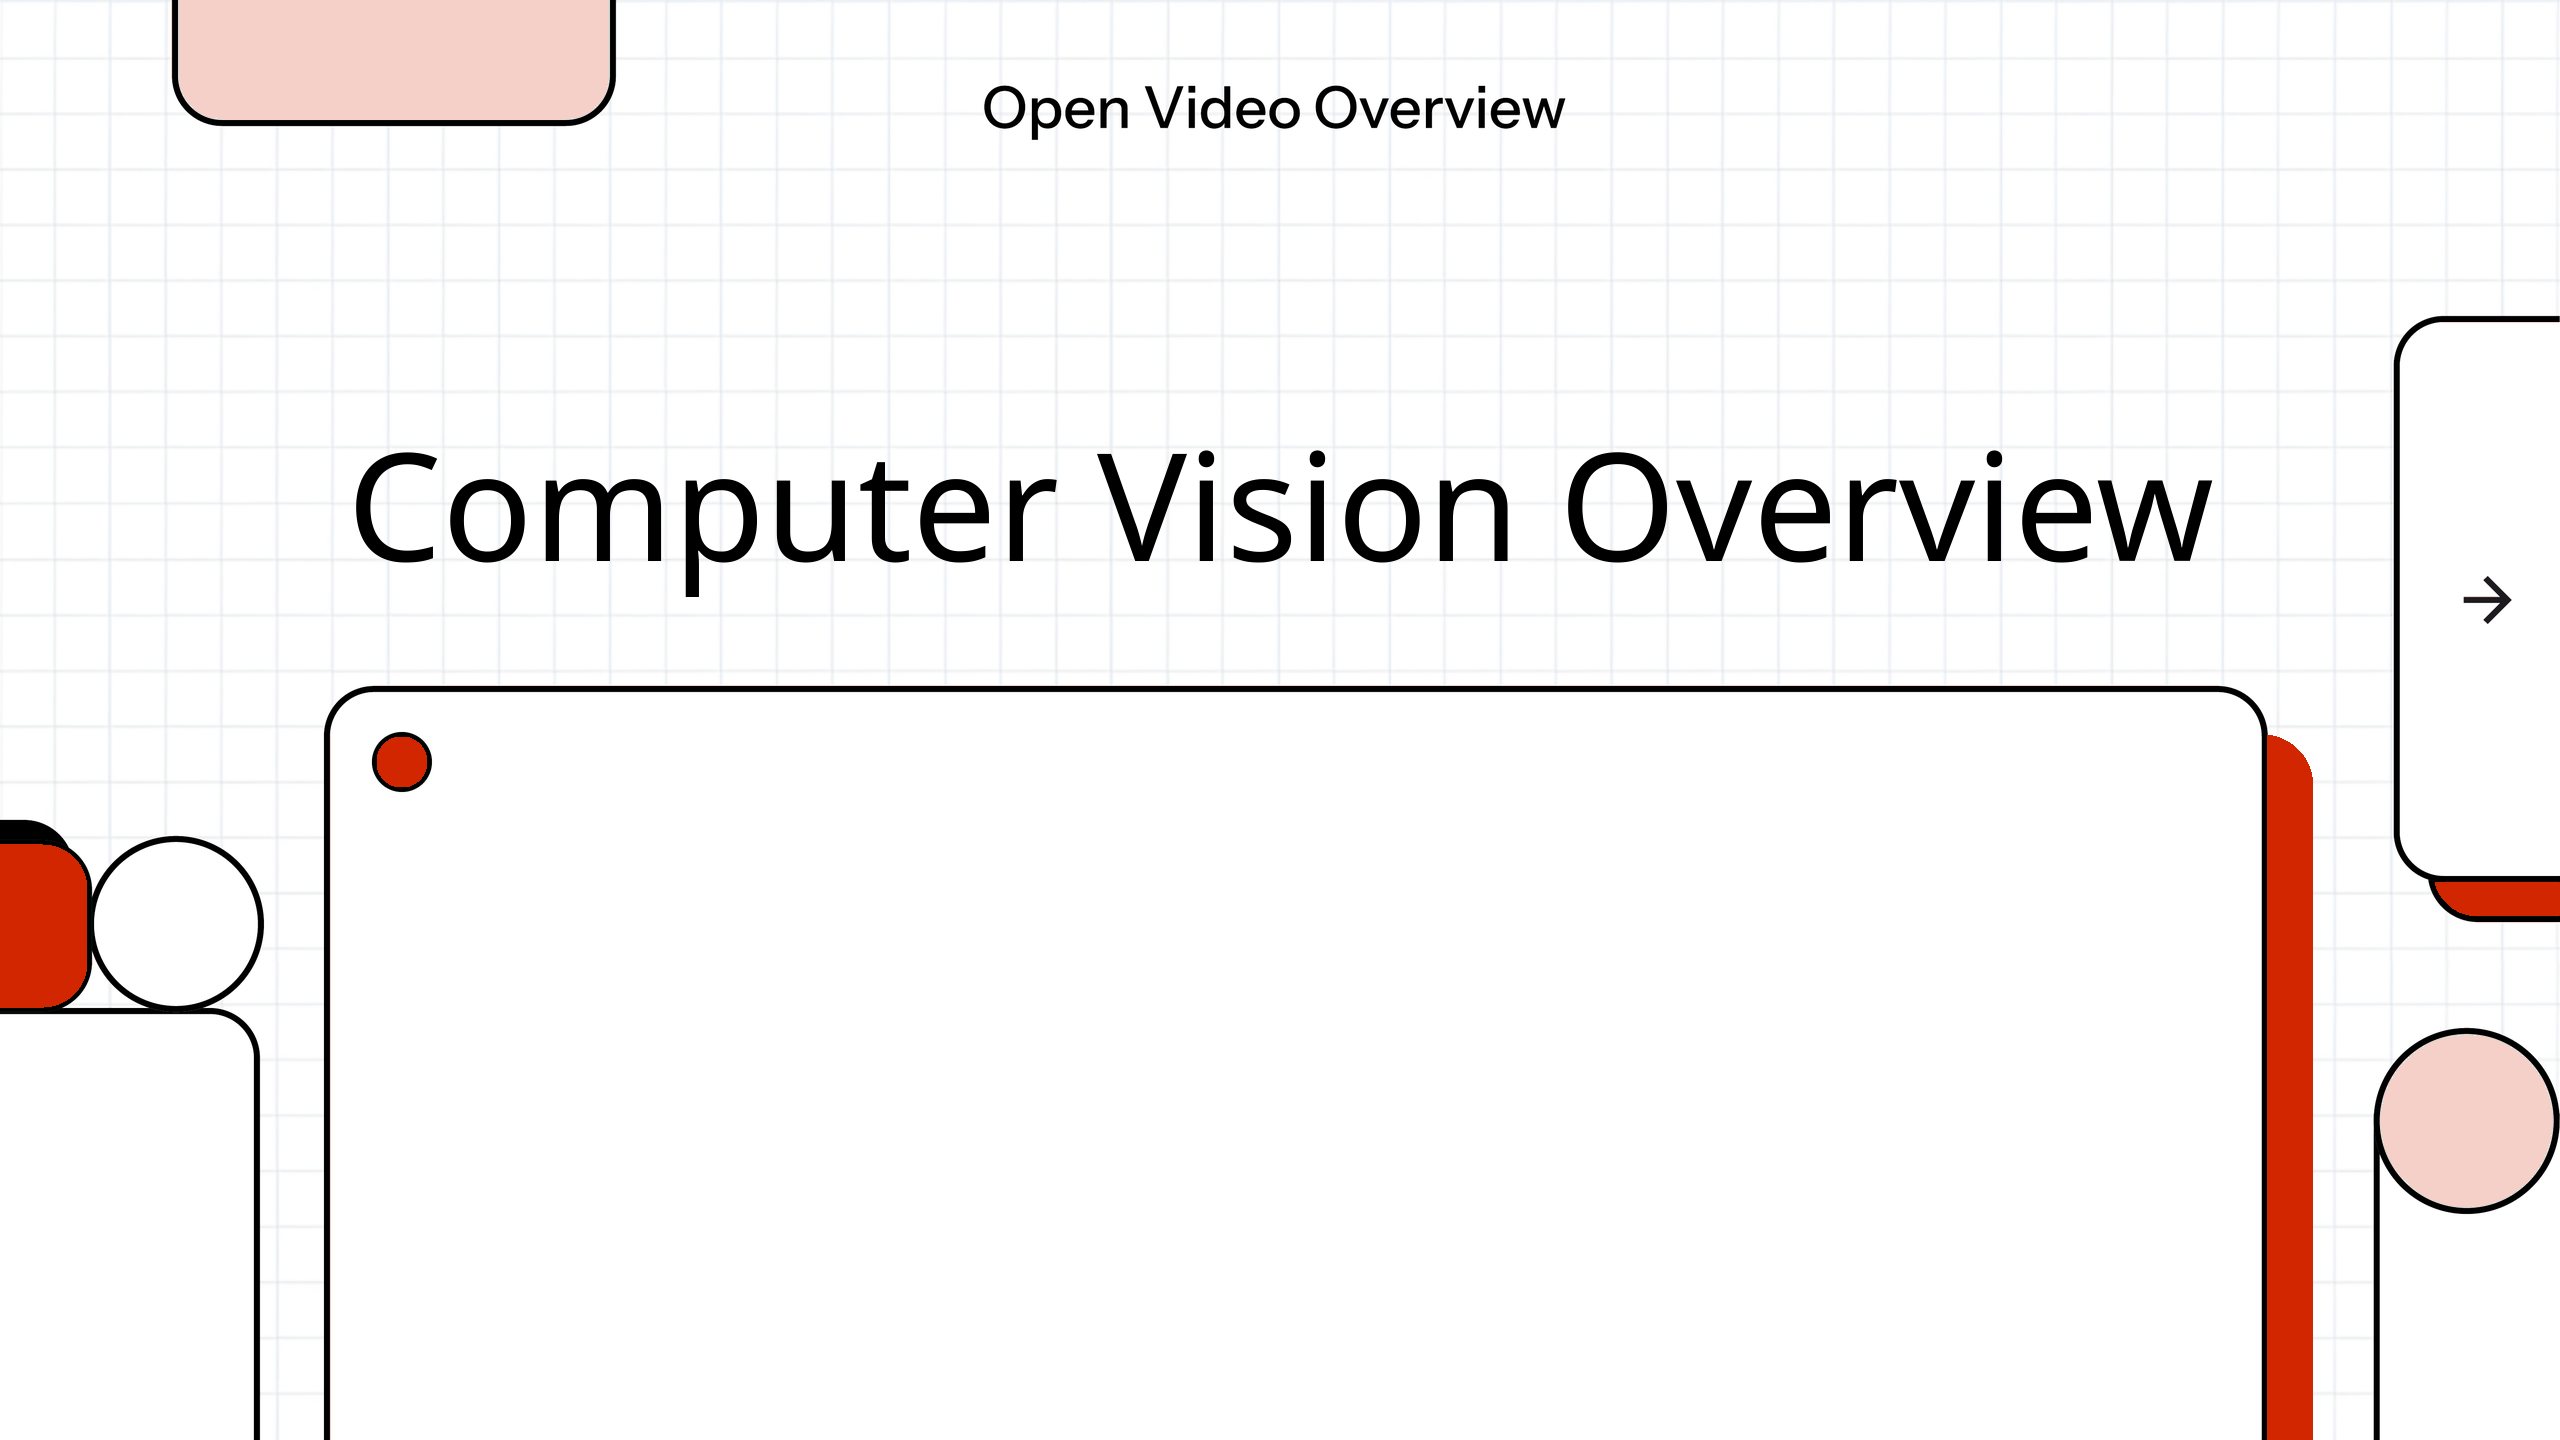
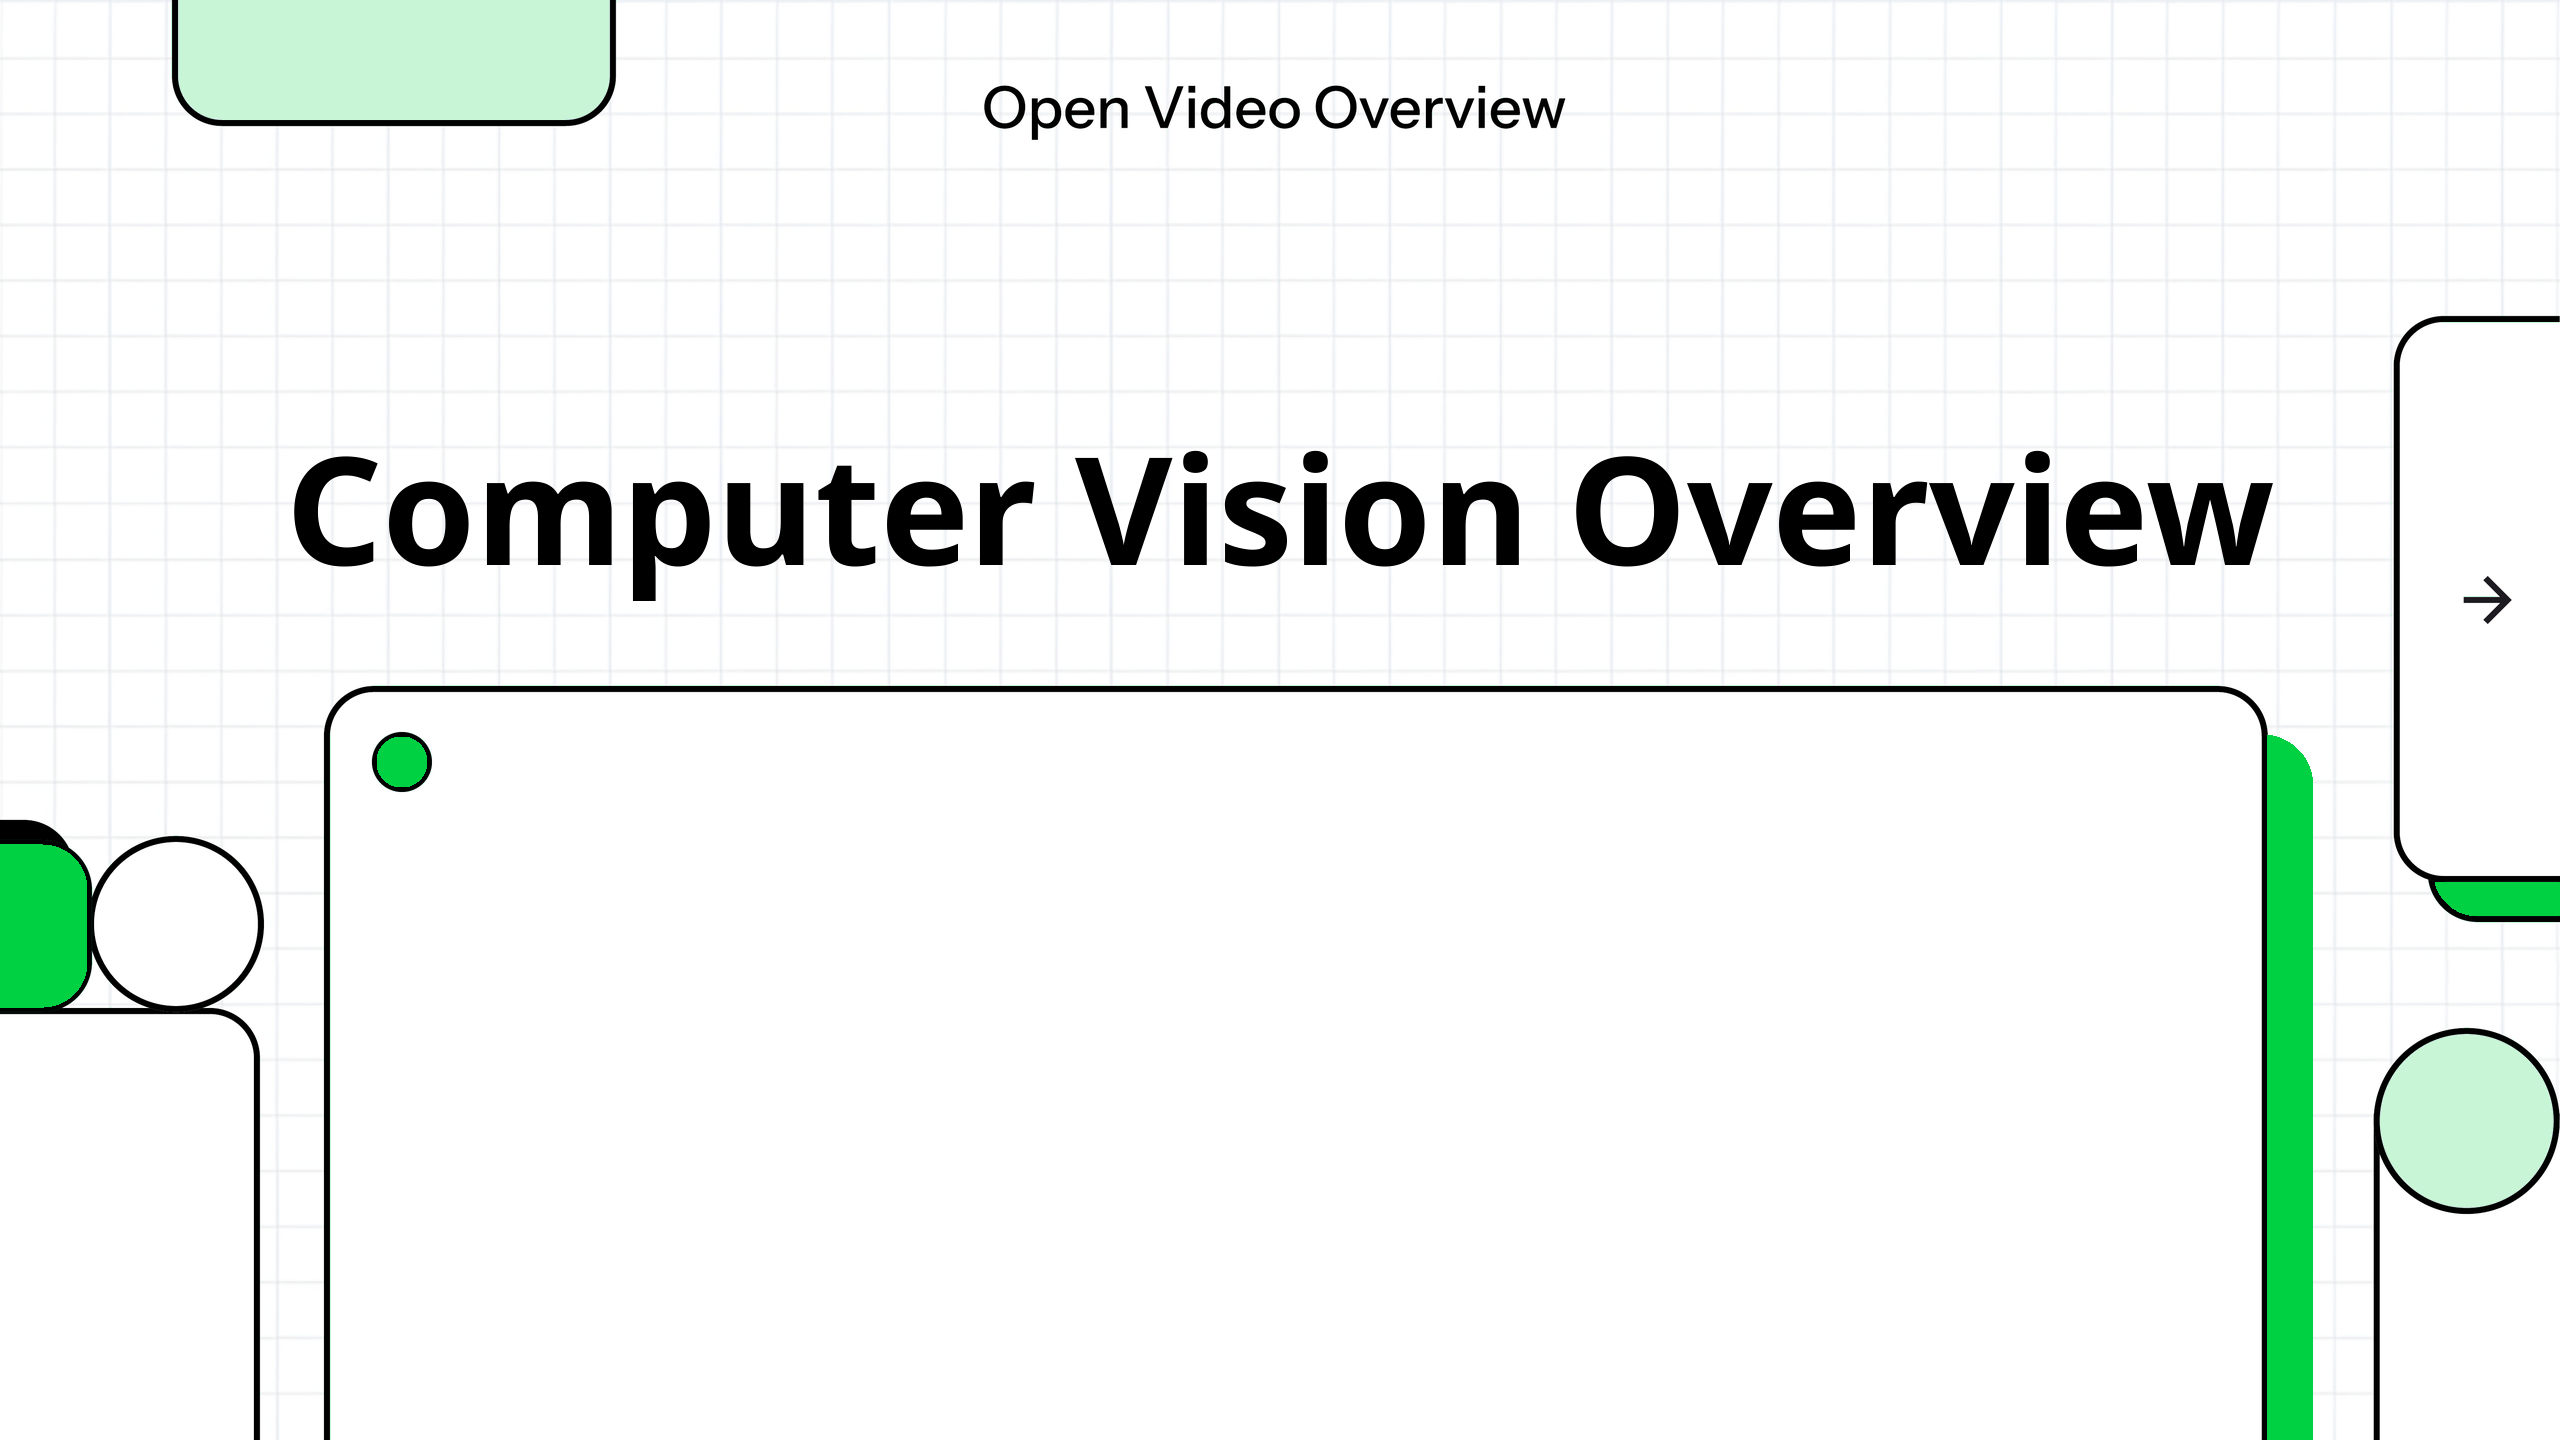
OK. Finally it's stable

diff --git a/python.py b/python.py
@@ -374,7 +374,7 @@ def add_data_for_opening(image_to_draw_on, data, font_dir):
     # Sử dụng hàm mixed để tự động detect markdown
     image_to_draw_on, _ = draw_mixed_text_with_markdown(
         image_to_draw_on, title_text, text_position_x, text_position_y,
-        font_regular, font_bold, max_width, color="black", anchor="mt"
+        font_bold, font_bold, max_width, color="black", anchor="mt"
     )
     
     return image_to_draw_on
